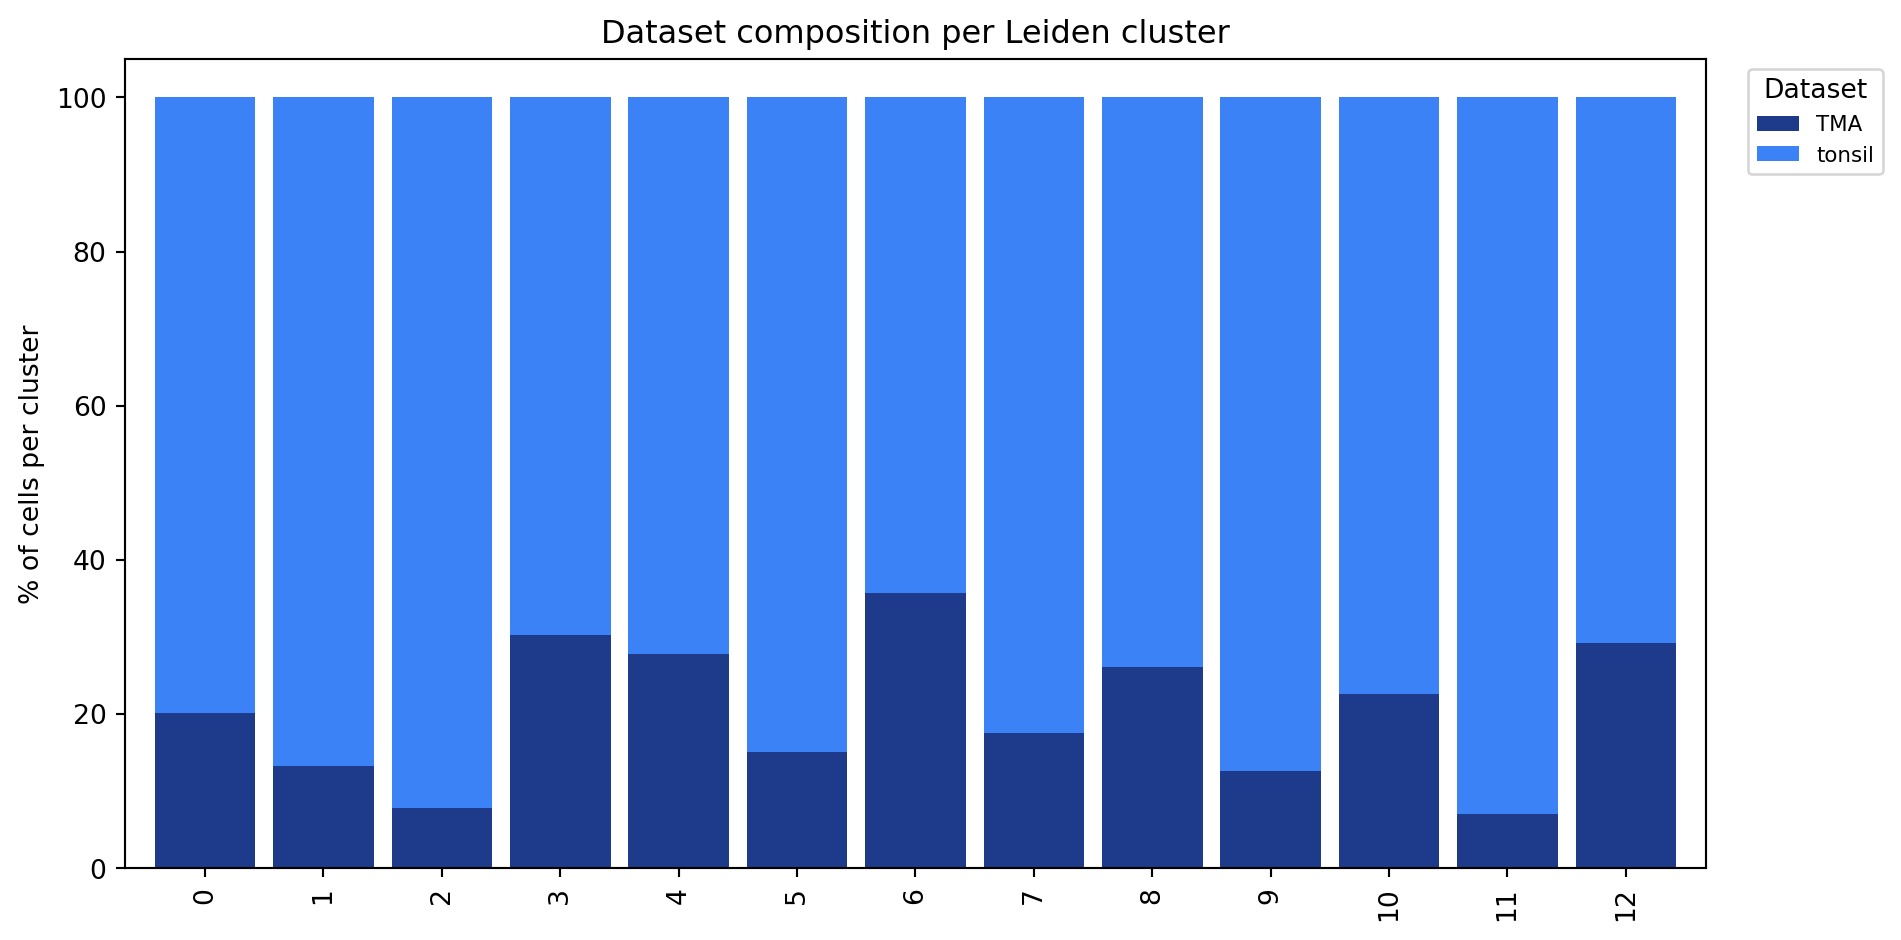
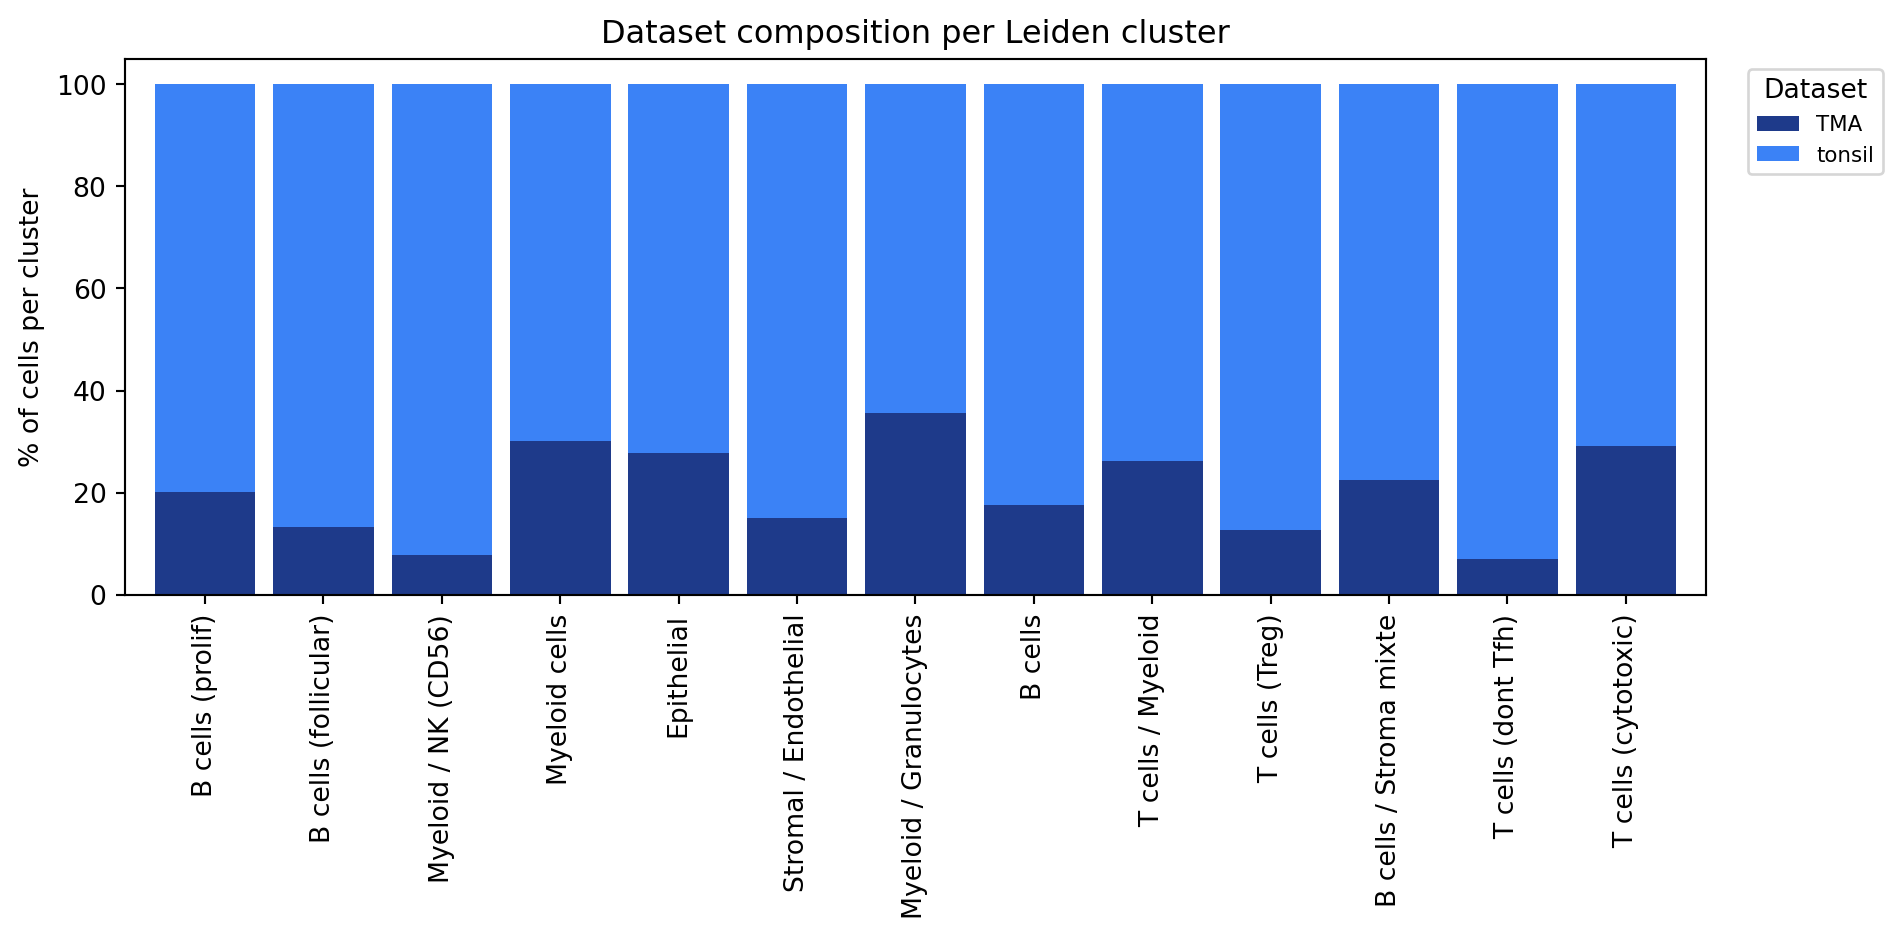
Built site for gh-pages

diff --git a/CODEX_TMA_ingest_visualization.html b/CODEX_TMA_ingest_visualization.html
@@ -242,7 +242,7 @@ FL/Tonsil query: 2.35M cells → label transfer via kNN in PCA space (TMA labels
 </section>
 <section id="load-data" class="level2" data-number="6.2">
 <h2 data-number="6.2" class="anchored" data-anchor-id="load-data"><span class="header-section-number">6.2</span> Load data</h2>
-<div id="deeaf91b" class="cell" data-execution_count="7">
+<div id="6e4a7346" class="cell" data-execution_count="7">
 <div class="cell-output cell-output-stdout">
 <pre><code>AnnData object with n_obs × n_vars = 2740910 × 61
     obs: 'cell_ID', 'area', 'centroid_x', 'centroid_y', 'eccentricity', 'solidity', 'axis_major_length', 'axis_minor_length', 'inertia_tensor-0-0', 'inertia_tensor-0-1', 'inertia_tensor-1-0', 'inertia_tensor-1-1', 'inertia_tensor_eigvals-0', 'inertia_tensor_eigvals-1', 'orientation', 'tma_label', 'lyr', 'leiden', 'dataset', 'batch', 'region', 'slide', 'cell_id', 'sample', 'n_counts'
@@ -259,7 +259,7 @@ TMA: 393,207  |  Tonsil: 2,347,703  |  Total: 2,740,910</code></pre>
 <h3 data-number="6.3.1" class="anchored" data-anchor-id="overview"><span class="header-section-number">6.3.1</span> Overview</h3>
 <section id="umap-colored-by-leiden-cluster" class="level4" data-number="6.3.1.1">
 <h4 data-number="6.3.1.1" class="anchored" data-anchor-id="umap-colored-by-leiden-cluster"><span class="header-section-number">6.3.1.1</span> UMAP colored by Leiden cluster</h4>
-<div id="aca9e5f6" class="cell" data-execution_count="8">
+<div id="1383183a" class="cell" data-execution_count="8">
 <div class="cell-output cell-output-display">
 <div>
 <figure class="figure">
@@ -271,7 +271,7 @@ TMA: 393,207  |  Tonsil: 2,347,703  |  Total: 2,740,910</code></pre>
 </section>
 <section id="umap-colored-by-tma-core" class="level4" data-number="6.3.1.2">
 <h4 data-number="6.3.1.2" class="anchored" data-anchor-id="umap-colored-by-tma-core"><span class="header-section-number">6.3.1.2</span> UMAP colored by TMA core</h4>
-<div id="ac6eedf2" class="cell" data-execution_count="9">
+<div id="047a9b67" class="cell" data-execution_count="9">
 <div class="cell-output cell-output-display">
 <div>
 <figure class="figure">
@@ -283,11 +283,11 @@ TMA: 393,207  |  Tonsil: 2,347,703  |  Total: 2,740,910</code></pre>
 </section>
 <section id="cluster-composition-tma-vs-fltonsil" class="level4" data-number="6.3.1.3">
 <h4 data-number="6.3.1.3" class="anchored" data-anchor-id="cluster-composition-tma-vs-fltonsil"><span class="header-section-number">6.3.1.3</span> Cluster composition: TMA vs FL/Tonsil</h4>
-<div id="7b3d329b" class="cell" data-execution_count="10">
+<div id="4352dfb5" class="cell" data-execution_count="10">
 <div class="cell-output cell-output-display">
 <div>
 <figure class="figure">
-<p><img src="CODEX_TMA_ingest_visualization_files/figure-html/cell-11-output-1.png" width="951" height="470" class="figure-img"></p>
+<p><img src="CODEX_TMA_ingest_visualization_files/figure-html/cell-11-output-1.png" width="951" height="469" class="figure-img"></p>
 </figure>
 </div>
 </div>
@@ -295,7 +295,7 @@ TMA: 393,207  |  Tonsil: 2,347,703  |  Total: 2,740,910</code></pre>
 </section>
 <section id="marker-expression-by-cluster-all-cells" class="level4" data-number="6.3.1.4">
 <h4 data-number="6.3.1.4" class="anchored" data-anchor-id="marker-expression-by-cluster-all-cells"><span class="header-section-number">6.3.1.4</span> Marker expression by cluster (all cells)</h4>
-<div id="9604947e" class="cell" data-execution_count="11">
+<div id="03fc37af" class="cell" data-execution_count="11">
 <div class="cell-output cell-output-display">
 <div>
 <figure class="figure">
@@ -308,7 +308,7 @@ TMA: 393,207  |  Tonsil: 2,347,703  |  Total: 2,740,910</code></pre>
 </section>
 <section id="tma-cores" class="level3" data-number="6.3.2">
 <h3 data-number="6.3.2" class="anchored" data-anchor-id="tma-cores"><span class="header-section-number">6.3.2</span> TMA cores</h3>
-<div id="aa468a9a" class="cell" data-execution_count="12">
+<div id="9bde0d1f" class="cell" data-execution_count="12">
 <div class="cell-output cell-output-stdout">
 <pre><code>AnnData object with n_obs × n_vars = 393207 × 61
     obs: 'cell_ID', 'area', 'centroid_x', 'centroid_y', 'eccentricity', 'solidity', 'axis_major_length', 'axis_minor_length', 'inertia_tensor-0-0', 'inertia_tensor-0-1', 'inertia_tensor-1-0', 'inertia_tensor-1-1', 'inertia_tensor_eigvals-0', 'inertia_tensor_eigvals-1', 'orientation', 'tma_label', 'lyr', 'leiden', 'dataset', 'batch', 'region', 'slide', 'cell_id', 'sample', 'n_counts', 'leiden_label'
@@ -321,7 +321,7 @@ Unique cores: ['A-3', 'A-4', 'A-2', 'B-4', 'B-1', 'B-3', 'B-2', 'C-4', 'C-2', 'C
 </div>
 <section id="umap-grid-by-tma-core" class="level4" data-number="6.3.2.1">
 <h4 data-number="6.3.2.1" class="anchored" data-anchor-id="umap-grid-by-tma-core"><span class="header-section-number">6.3.2.1</span> UMAP grid by TMA core</h4>
-<div id="c3dc64c7" class="cell" data-execution_count="13">
+<div id="ac7b612c" class="cell" data-execution_count="13">
 <div class="cell-output cell-output-display">
 <div>
 <figure class="figure">
@@ -333,7 +333,7 @@ Unique cores: ['A-3', 'A-4', 'A-2', 'B-4', 'B-1', 'B-3', 'B-2', 'C-4', 'C-2', 'C
 </section>
 <section id="cell-type-composition-per-tma-core" class="level4" data-number="6.3.2.2">
 <h4 data-number="6.3.2.2" class="anchored" data-anchor-id="cell-type-composition-per-tma-core"><span class="header-section-number">6.3.2.2</span> Cell type composition per TMA core</h4>
-<div id="b447855c" class="cell" data-execution_count="14">
+<div id="e4abc841" class="cell" data-execution_count="14">
 <div class="cell-output cell-output-display">
 <div>
 <figure class="figure">
@@ -345,7 +345,7 @@ Unique cores: ['A-3', 'A-4', 'A-2', 'B-4', 'B-1', 'B-3', 'B-2', 'C-4', 'C-2', 'C
 </section>
 <section id="marker-expression-by-cluster-tma-only" class="level4" data-number="6.3.2.3">
 <h4 data-number="6.3.2.3" class="anchored" data-anchor-id="marker-expression-by-cluster-tma-only"><span class="header-section-number">6.3.2.3</span> Marker expression by cluster (TMA only)</h4>
-<div id="1b675f63" class="cell" data-execution_count="15">
+<div id="0d158800" class="cell" data-execution_count="15">
 <div class="cell-output cell-output-display">
 <div>
 <figure class="figure">
@@ -422,7 +422,7 @@ Unique cores: ['A-3', 'A-4', 'A-2', 'B-4', 'B-1', 'B-3', 'B-2', 'C-4', 'C-2', 'C
 </section>
 <section id="spatial-projection-in-tma-grid-layout" class="level4" data-number="6.3.2.5">
 <h4 data-number="6.3.2.5" class="anchored" data-anchor-id="spatial-projection-in-tma-grid-layout"><span class="header-section-number">6.3.2.5</span> Spatial projection in TMA grid layout</h4>
-<div id="6169c27e" class="cell" data-execution_count="16">
+<div id="7991ea86" class="cell" data-execution_count="16">
 <div class="cell-output cell-output-display">
 <div>
 <figure class="figure">
@@ -438,7 +438,7 @@ Unique cores: ['A-3', 'A-4', 'A-2', 'B-4', 'B-1', 'B-3', 'B-2', 'C-4', 'C-2', 'C
 <section id="spatial-projection-per-slide" class="level4" data-number="6.3.3.1">
 <h4 data-number="6.3.3.1" class="anchored" data-anchor-id="spatial-projection-per-slide"><span class="header-section-number">6.3.3.1</span> Spatial projection per slide</h4>
 <p>Cells colored by the TMA cluster they were assigned to via ingest.</p>
-<div id="487c8f16" class="cell" data-execution_count="17">
+<div id="7bba055f" class="cell" data-execution_count="17">
 <div class="cell-output cell-output-display">
 <div>
 <figure class="figure">
@@ -447,7 +447,7 @@ Unique cores: ['A-3', 'A-4', 'A-2', 'B-4', 'B-1', 'B-3', 'B-2', 'C-4', 'C-2', 'C
 </div>
 </div>
 </div>
-<div id="1940d46d" class="cell" data-execution_count="18">
+<div id="69cf9575" class="cell" data-execution_count="18">
 <div class="cell-output cell-output-display">
 <div>
 <figure class="figure">
@@ -456,7 +456,7 @@ Unique cores: ['A-3', 'A-4', 'A-2', 'B-4', 'B-1', 'B-3', 'B-2', 'C-4', 'C-2', 'C
 </div>
 </div>
 </div>
-<div id="17d2c357" class="cell" data-execution_count="19">
+<div id="c99a0f8a" class="cell" data-execution_count="19">
 <div class="cell-output cell-output-display">
 <div>
 <figure class="figure">
@@ -465,7 +465,7 @@ Unique cores: ['A-3', 'A-4', 'A-2', 'B-4', 'B-1', 'B-3', 'B-2', 'C-4', 'C-2', 'C
 </div>
 </div>
 </div>
-<div id="153f1e74" class="cell" data-execution_count="20">
+<div id="c7c759f0" class="cell" data-execution_count="20">
 <div class="cell-output cell-output-display">
 <div>
 <figure class="figure">
@@ -477,7 +477,7 @@ Unique cores: ['A-3', 'A-4', 'A-2', 'B-4', 'B-1', 'B-3', 'B-2', 'C-4', 'C-2', 'C
 </section>
 <section id="cluster-composition-per-slide" class="level4" data-number="6.3.3.2">
 <h4 data-number="6.3.3.2" class="anchored" data-anchor-id="cluster-composition-per-slide"><span class="header-section-number">6.3.3.2</span> Cluster composition per slide</h4>
-<div id="f9b87484" class="cell" data-execution_count="21">
+<div id="8acae724" class="cell" data-execution_count="21">
 <div class="cell-output cell-output-display">
 <div>
 <figure class="figure">
@@ -489,7 +489,7 @@ Unique cores: ['A-3', 'A-4', 'A-2', 'B-4', 'B-1', 'B-3', 'B-2', 'C-4', 'C-2', 'C
 </section>
 <section id="marker-expression-by-cluster-fltonsil-only" class="level4" data-number="6.3.3.3">
 <h4 data-number="6.3.3.3" class="anchored" data-anchor-id="marker-expression-by-cluster-fltonsil-only"><span class="header-section-number">6.3.3.3</span> Marker expression by cluster (FL/tonsil only)</h4>
-<div id="223665f0" class="cell" data-execution_count="22">
+<div id="2cac8006" class="cell" data-execution_count="22">
 <div class="cell-output cell-output-display">
 <div>
 <figure class="figure">
@@ -1201,7 +1201,7 @@ Unique cores: ['A-3', 'A-4', 'A-2', 'B-4', 'B-1', 'B-3', 'B-2', 'C-4', 'C-2', 'C
 <span id="cb3-249"><a href="#cb3-249" aria-hidden="true" tabindex="-1"></a><span class="fu">#### Cluster composition: TMA vs FL/Tonsil</span></span>
 <span id="cb3-250"><a href="#cb3-250" aria-hidden="true" tabindex="-1"></a></span>
 <span id="cb3-253"><a href="#cb3-253" aria-hidden="true" tabindex="-1"></a><span class="in">```{python}</span></span>
-<span id="cb3-254"><a href="#cb3-254" aria-hidden="true" tabindex="-1"></a>ct <span class="op">=</span> pd.crosstab(adata.obs[<span class="st">"leiden"</span>], adata.obs[<span class="st">"dataset"</span>], normalize<span class="op">=</span><span class="st">"index"</span>) <span class="op">*</span> <span class="dv">100</span></span>
+<span id="cb3-254"><a href="#cb3-254" aria-hidden="true" tabindex="-1"></a>ct <span class="op">=</span> pd.crosstab(adata.obs[<span class="st">"leiden_label"</span>], adata.obs[<span class="st">"dataset"</span>], normalize<span class="op">=</span><span class="st">"index"</span>) <span class="op">*</span> <span class="dv">100</span></span>
 <span id="cb3-255"><a href="#cb3-255" aria-hidden="true" tabindex="-1"></a>ct.index.name <span class="op">=</span> <span class="va">None</span></span>
 <span id="cb3-256"><a href="#cb3-256" aria-hidden="true" tabindex="-1"></a>colors <span class="op">=</span> cluster_palette[:ct.shape[<span class="dv">1</span>]]</span>
 <span id="cb3-257"><a href="#cb3-257" aria-hidden="true" tabindex="-1"></a>fig, ax <span class="op">=</span> plt.subplots(figsize<span class="op">=</span>(<span class="dv">10</span>, <span class="dv">5</span>))</span>